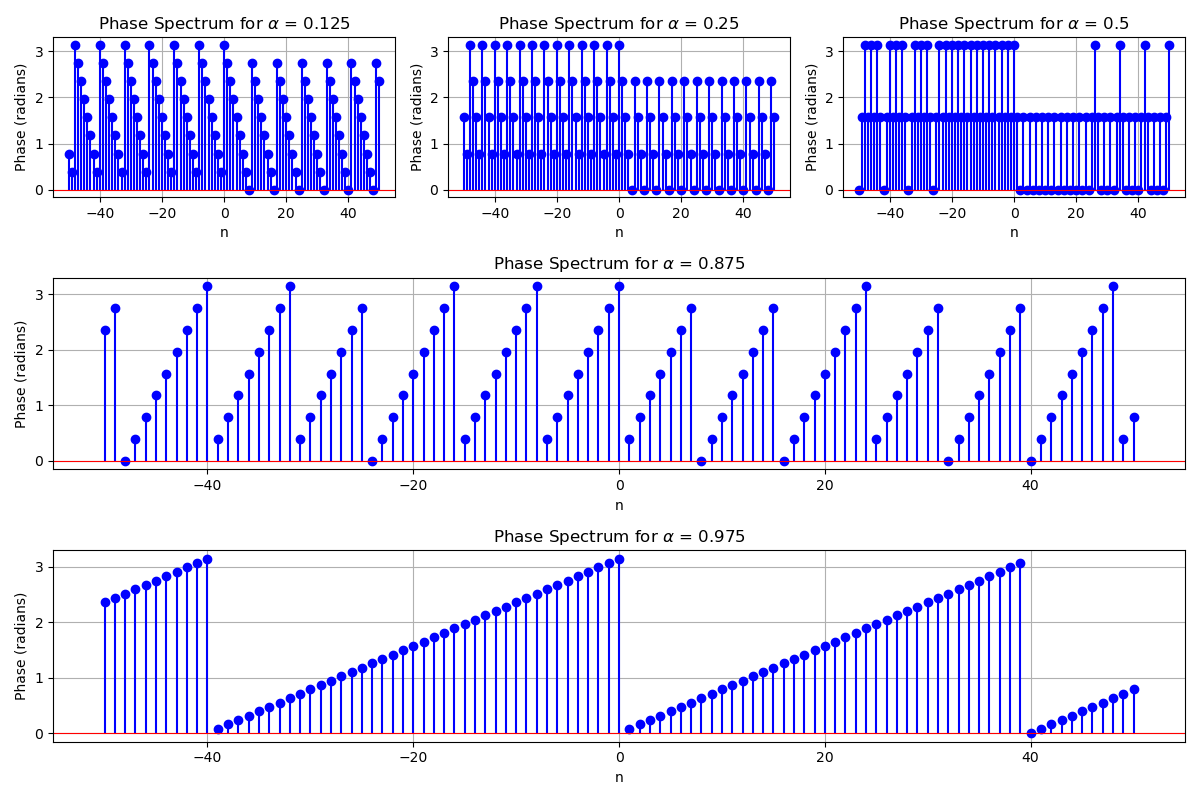
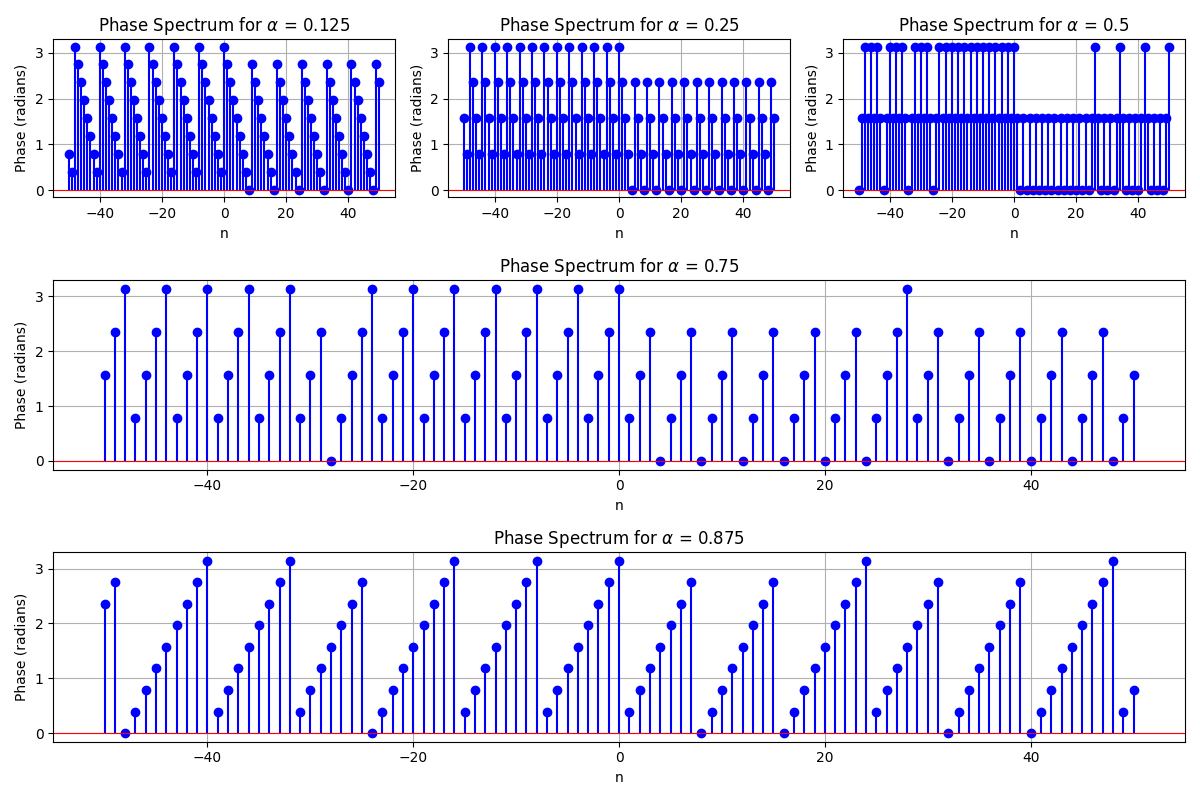
still making changes

diff --git a/phase.py b/phase.py
@@ -6,8 +6,8 @@ import os
 # Create directory for figures
 os.makedirs('figs', exist_ok=True)
 
-alpha_vals = [0.125, 0.25, 0.5, 0.875, 0.975]  # Different alpha values
-n = np.arange(-50, 51)  # Range for n
+alpha_vals = [0.125, 0.25, 0.5, 0.75, 0.875]  # Different alpha values
+n = np.arange(-50, 51, 1)  # Range for n
 
 fig = plt.figure(figsize=(12, 8))
 gs = gridspec.GridSpec(3, 3, height_ratios=[1, 1.2, 1.2])  # 3 rows, 3 columns
